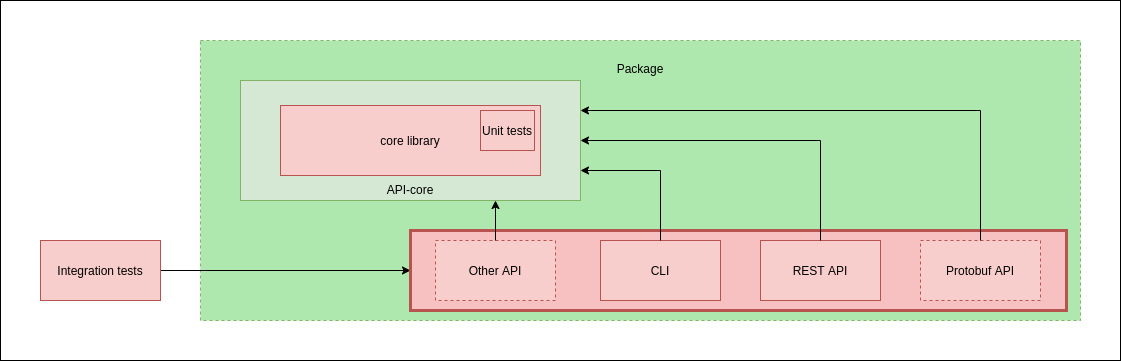
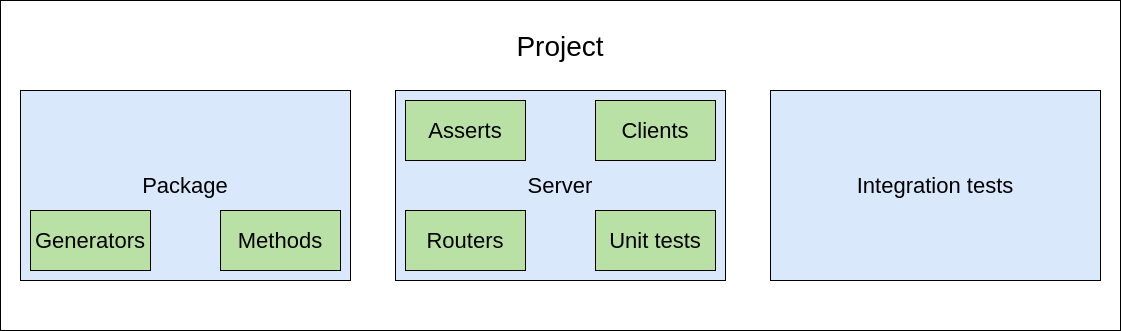
[docs]. add docs for new structure

diff --git a/{{ cookiecutter.service }}/docs/structure.md b/{{ cookiecutter.service }}/docs/structure.md
@@ -87,7 +87,7 @@ Here we save methods for connect to our service. Example of usage, you can find 
 
 ### [server/tests](server/tests/)
 
-This repo consists unit tests. Unit tests is used to test functions
+This repo consists unit tests. Unit tests is used to test functions, not services
 
 ### [scripts/](scripts)
 
@@ -98,8 +98,10 @@ Service scripts are stored here. Default scripts:
 ### [tests/](tests)
 
 This directory consists only integration tests. In this directory cannot import files from another directories except 
-package directory (python_service_layout). We tests our service as block box method. Therefore we cannot use common 
+package directory. We tests our service as block box method. Therefore we cannot use common 
 functions or scripts with tested sources.
+
+More details about testing, you can find [here](tests.md)
 
 ### makefile
 

diff --git a/{{ cookiecutter.service }}/docs/tests.md b/{{ cookiecutter.service }}/docs/tests.md
@@ -1,0 +1,27 @@
+# Testing
+
+If we integration-test, we have some stages:
+
+* Clean storage
+* Data generation
+* Create objects
+* Testing
+* Validation
+* Clean storage
+
+If we unit-test, we have some stages: 
+
+* Create objects
+* Testing
+* Validation
+
+In this way unit-test is partial case of integration test. We use unit-test for testing 
+logic in context one object, function (method). For example, we have function:
+
+    def plus(a, b):
+        return a + b
+        
+This is unit-test. We want to test simple object. This situation is not always possible. 
+If we want communication some systems and modules, we deal with integration tests. 
+For example, we test connect to data base and collect data from there. This is 
+integration-tests. 

diff --git a/README.md b/README.md
@@ -10,6 +10,16 @@ Below is the 1000ft structure of project's modules. Here, red ones are private, 
 
 ![](docs/structure.png)
 
+We have some modules:
+
+- **Package**. Publish to pypi registry
+- **Server**. Server has some submodules for configuration handlers, logging and exceptions. Server has all business logic.
+- **Integration tests**. Integration tests communicate with server as black box.
+
+**Notice**. Bad practice import any function from server module.  
+
+Package consists
+
 Read more on the project's main principles [here](%7B%7B%20cookiecutter.service%20%7D%7D/docs/structure.md).
 you can also read more on our approach [here](https://github.com/U-Company/notes).
 

diff --git a/{{ cookiecutter.service }}/README.md b/{{ cookiecutter.service }}/README.md
@@ -4,7 +4,7 @@
 
 This service is built with a [python-private-service-layout](https://github.com/U-Company/python-private-service-layout)
 
-You can read about service here
+You can read about service [here](docs/service.md) or abouts structure project [here](docs/structure.md)
 
 ## Installing
 
